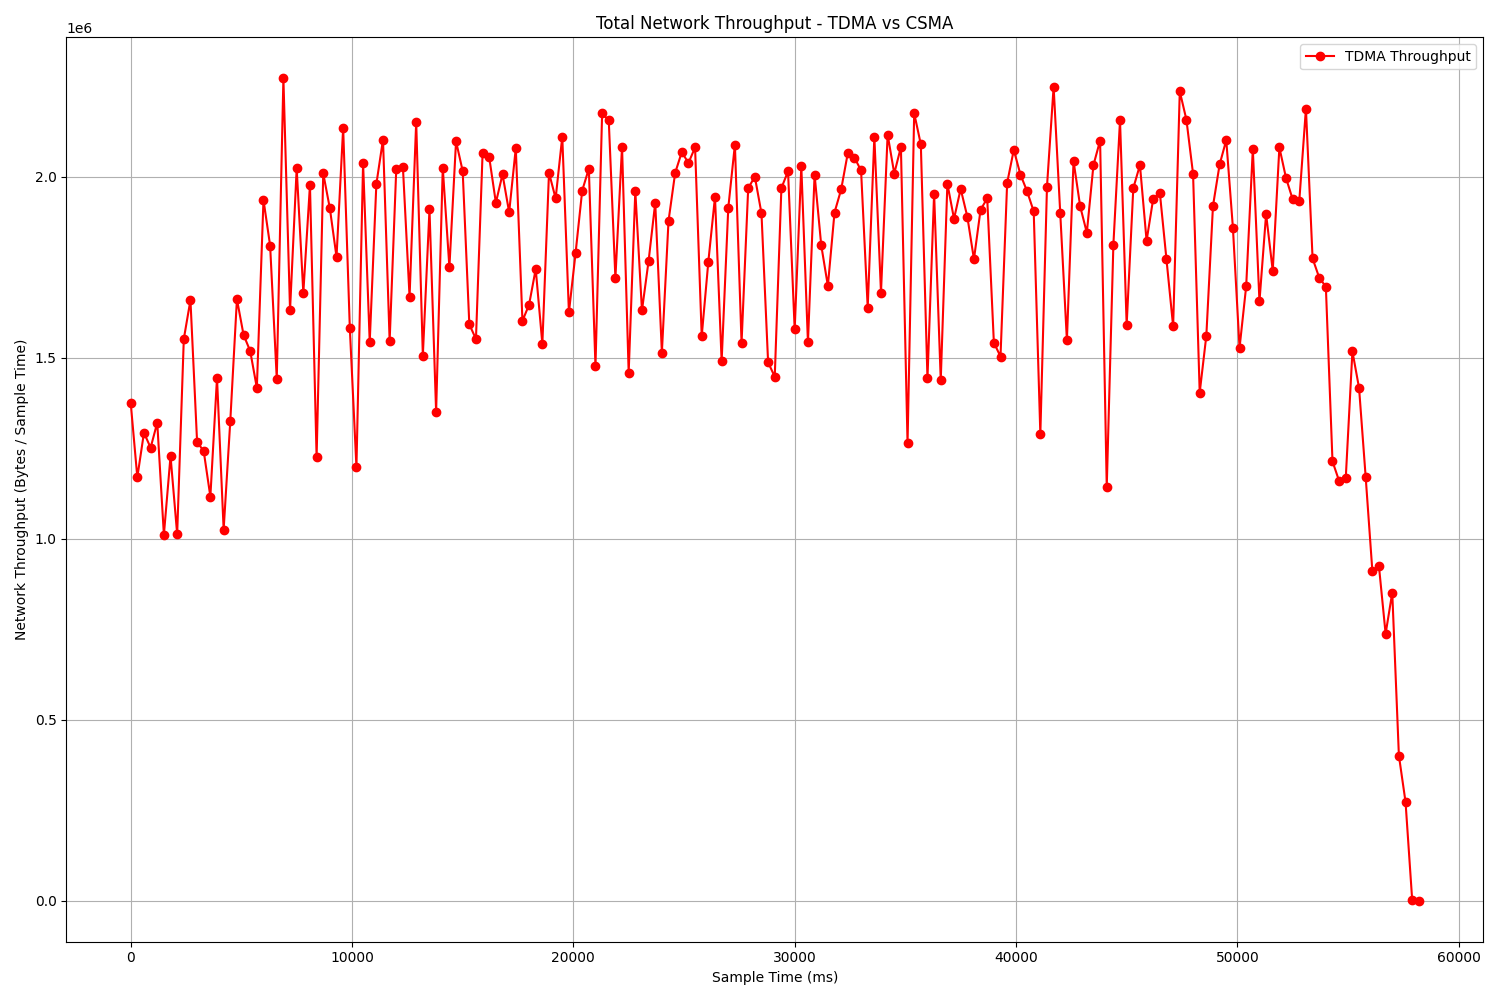
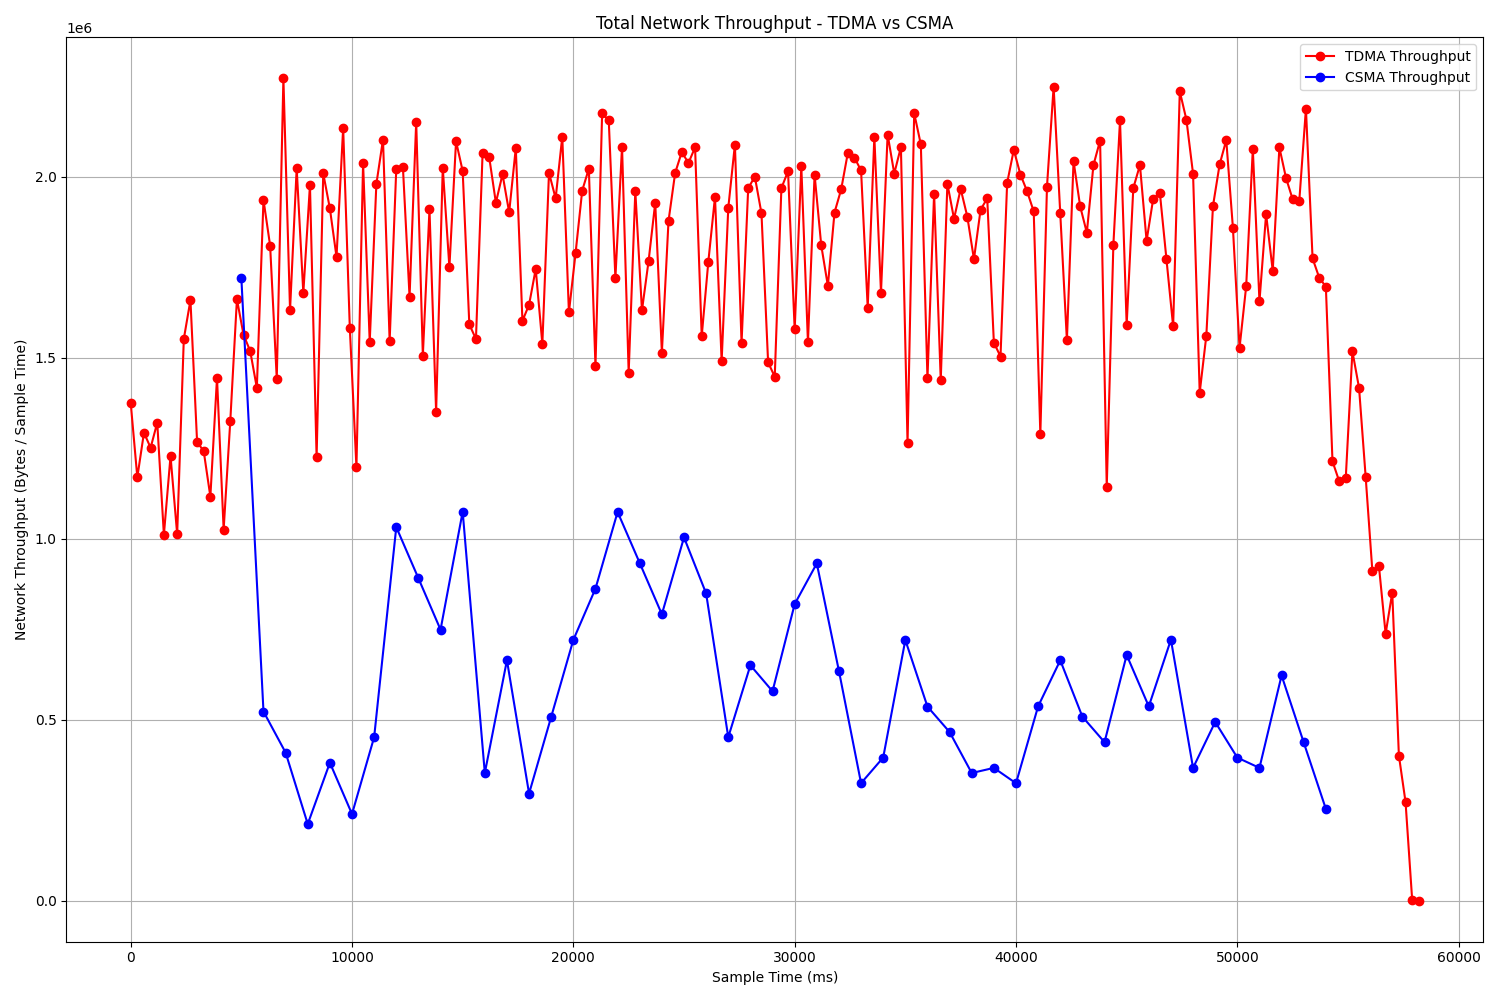
New charts

diff --git a/docs/logs/processTrace.py b/docs/logs/processTrace.py
@@ -4,7 +4,7 @@ import math
 import matplotlib.pyplot as plt
 import os
 
-TEST_NAME = "star-topology"
+TEST_NAME = "tree-topology"
 TEST_TYPE = "tdma"
 TRACE_NAME = "trace-6nodes.pcapng.gz"
 
@@ -470,12 +470,12 @@ def compare_throughput(tdma_path, csma_path):
     
     #These functions should simply return a tuple with x and y data for the plots
     (tdma_x, tdma_y) = tdma_network_throughput(tdma_path)
-    #(csma_x, csma_y) = csma_network_throughput(csma_path)
+    (csma_x, csma_y) = csma_network_throughput(csma_path)
 
     plt.figure(figsize=(15,10))
     plt.clf()
     plt.plot(tdma_x, tdma_y, marker='o', linestyle='-', color="red", label = "TDMA Throughput")
-    #plt.plot(csma_x[1:-1], csma_y[1:-1], marker='o', linestyle='-', color="blue", label = "CSMA Throughput")
+    plt.plot(csma_x[5:-5], csma_y[5:-5], marker='o', linestyle='-', color="blue", label = "CSMA Throughput")
 
     plt.legend()
     plt.grid()
@@ -490,7 +490,7 @@ if __name__ == '__main__':
 
     #process_pcap('./' + TEST_NAME +'/' + TEST_TYPE + '/' + TRACE_NAME)
 
-    #compute_position('./' + TEST_NAME +'/' + TEST_TYPE + '/' + TRACE_NAME)
+    compute_position('./' + TEST_NAME +'/' + TEST_TYPE + '/' + TRACE_NAME)
 
     compare_throughput('./' + TEST_NAME +'/' + TEST_TYPE + '/' + TRACE_NAME, './' + TEST_NAME +'/csma')
 

diff --git a/docs/logs/generateReport.py b/docs/logs/generateReport.py
@@ -6,7 +6,7 @@ import numpy as np
 import matplotlib.ticker as mticker
 
 SLOT_LEN_MICRO = 1000000
-TEST_NAME = 'star-topology'
+TEST_NAME = 'tree-topology'
 TEST_TYPE = 'tdma'
 NODES = ['drone1','drone2', 'drone3', 'drone4', 'drone5', 'drone6']
 PATH = './' + TEST_NAME + '/' + TEST_TYPE + '/'
